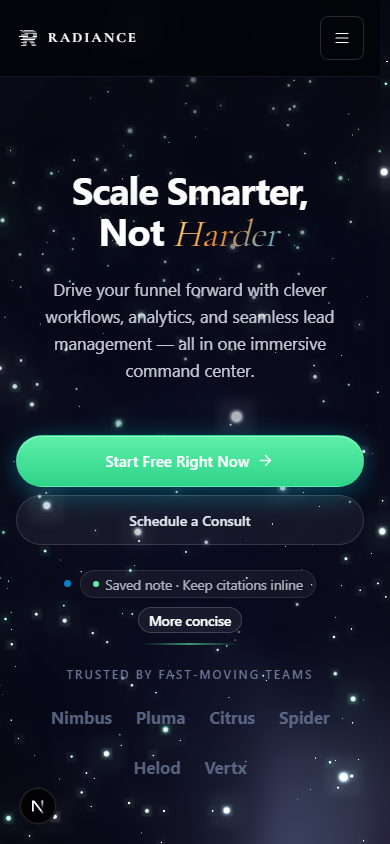
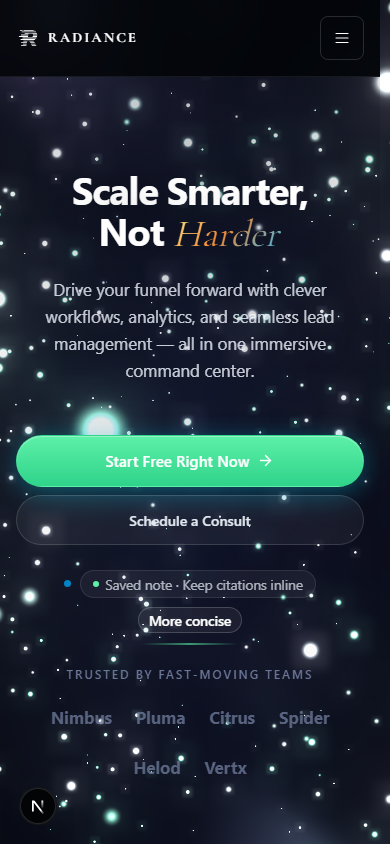
fix(background): resolve starfield point attenuation, immediate visibility, and CI router invariant

diff --git a/src/components/landing/webgl-starfield.tsx b/src/components/landing/webgl-starfield.tsx
@@ -318,7 +318,7 @@ export function WebGLStarfield() {
           uniforms: {
             uTime: { value: 0 },
             uSize: { value: CONFIG.pointSize },
-            uOpacity: { value: 0 },
+            uOpacity: { value: CONFIG.opacity },
             uDrift: { value: 0 },
             uDepth: { value: 30 },
             uTwinkle: { value: CONFIG.twinkle },
@@ -353,8 +353,12 @@ export function WebGLStarfield() {
 
               vec4 viewPosition = viewMatrix * modelPosition;
               gl_Position = projectionMatrix * viewPosition;
-              gl_PointSize = uSize * aScale;
-              gl_PointSize *= (1.0 / -viewPosition.z);
+              if (viewPosition.z >= -0.1) {
+                gl_PointSize = 0.0;
+              } else {
+                float pz = -viewPosition.z;
+                gl_PointSize = clamp((uSize * aScale) / pz, 2.0, 75.0);
+              }
 
               vec3 base = aPalette < 0.5 ? uColorA : (aPalette < 1.5 ? uColorB : uColorC);
               vColor = base * aBright;
@@ -367,7 +371,7 @@ export function WebGLStarfield() {
               vec2 uv = gl_PointCoord - 0.5;
               float d = length(uv);
               if (d > 0.5) discard;
-              float strength = pow(1.0 - d * 2.0, 4.0);
+              float strength = pow(clamp(1.0 - d * 2.0, 0.0, 1.0), 2.0);
               vec3 color = mix(vec3(0.0), vColor, strength);
               gl_FragColor = vec4(color * uBrightness, strength * uOpacity * vTwinkle);
             }
@@ -540,10 +544,10 @@ export function WebGLStarfield() {
           camera.position.set(m.x * CONFIG.parallax, m.y * CONFIG.parallax, 5 - scroll * CONFIG.scrollPush);
           camera.lookAt(m.x * CONFIG.parallax, m.y * CONFIG.parallax, -10);
 
-          // Appear Fade-In
+          // Appear Fade-In (immediate baseline visibility)
           const elapsed = now - appearStart;
-          const fade = Math.min(Math.max((elapsed - 300) / 1400, 0), 1);
-          starMaterial.uniforms.uOpacity.value = fade * CONFIG.opacity;
+          const fade = Math.min(Math.max(elapsed / 600, 0), 1);
+          starMaterial.uniforms.uOpacity.value = Math.max(0.75, fade) * CONFIG.opacity;
 
           group.rotation.z += dt * (CONFIG.spin + scroll * CONFIG.scrollSpin);
 

diff --git a/src/components/landing/landing-cta.tsx b/src/components/landing/landing-cta.tsx
@@ -2,7 +2,6 @@
 
 import React, { type ReactNode } from "react";
 import Link from "next/link";
-import { useRouter } from "next/navigation";
 import { cn } from "@/lib/utils/cn";
 
 export function LandingCta({
@@ -20,8 +19,6 @@ export function LandingCta({
   className?: string;
   style?: React.CSSProperties;
 }) {
-  const router = useRouter();
-
   const handleClick = (e: React.MouseEvent<HTMLAnchorElement>) => {
     if (href.startsWith("/")) {
       e.preventDefault();

diff --git a/src/components/landing/ascend-planet-landing.css b/src/components/landing/ascend-planet-landing.css
@@ -162,7 +162,7 @@
   flex-direction: column;
   position: relative;
   padding-top: clamp(84px, 11vh, 130px);
-  background: radial-gradient(125% 62% at 50% -10%, rgba(4, 6, 15, .82) 0%, rgba(4, 6, 15, .28) 44%, transparent 68%);
+  background: radial-gradient(125% 62% at 50% -10%, rgba(4, 6, 15, .32) 0%, rgba(4, 6, 15, .10) 44%, transparent 68%);
 }
 
 .planet-nav {
